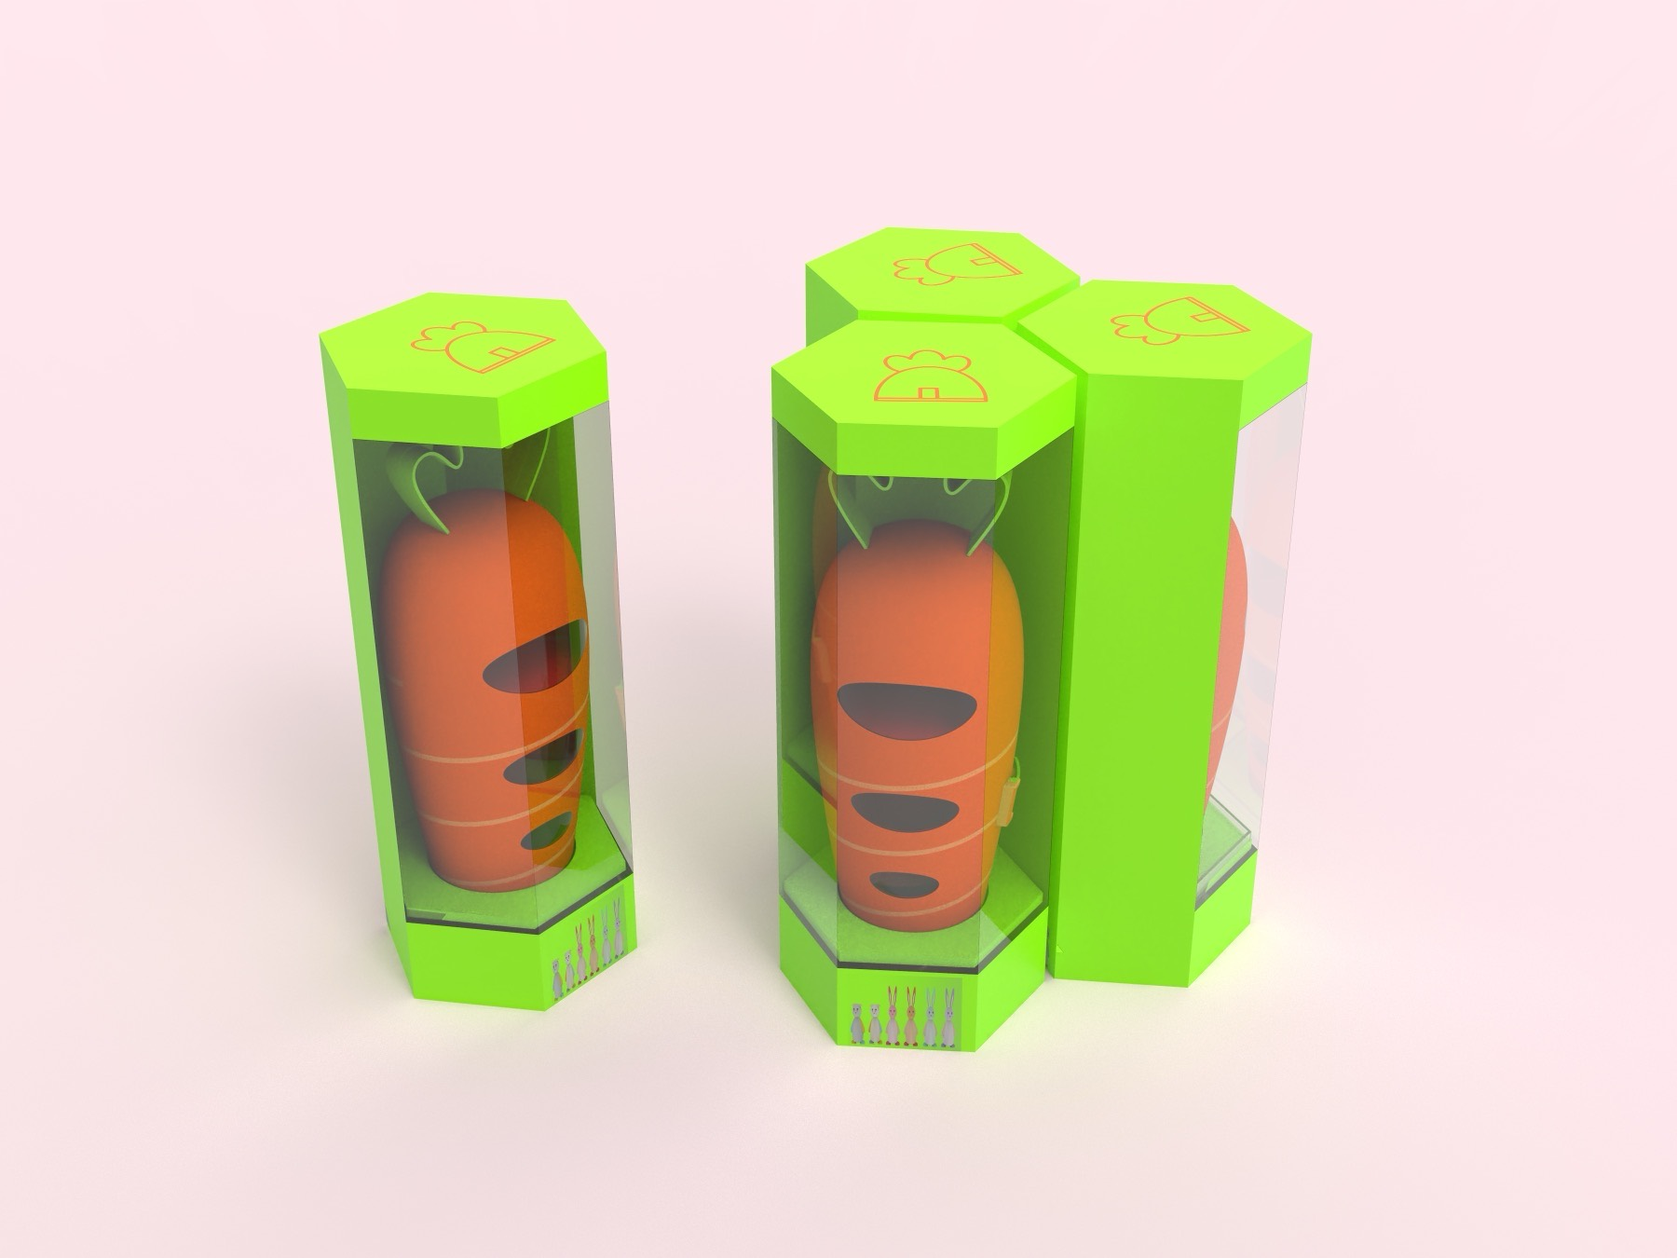
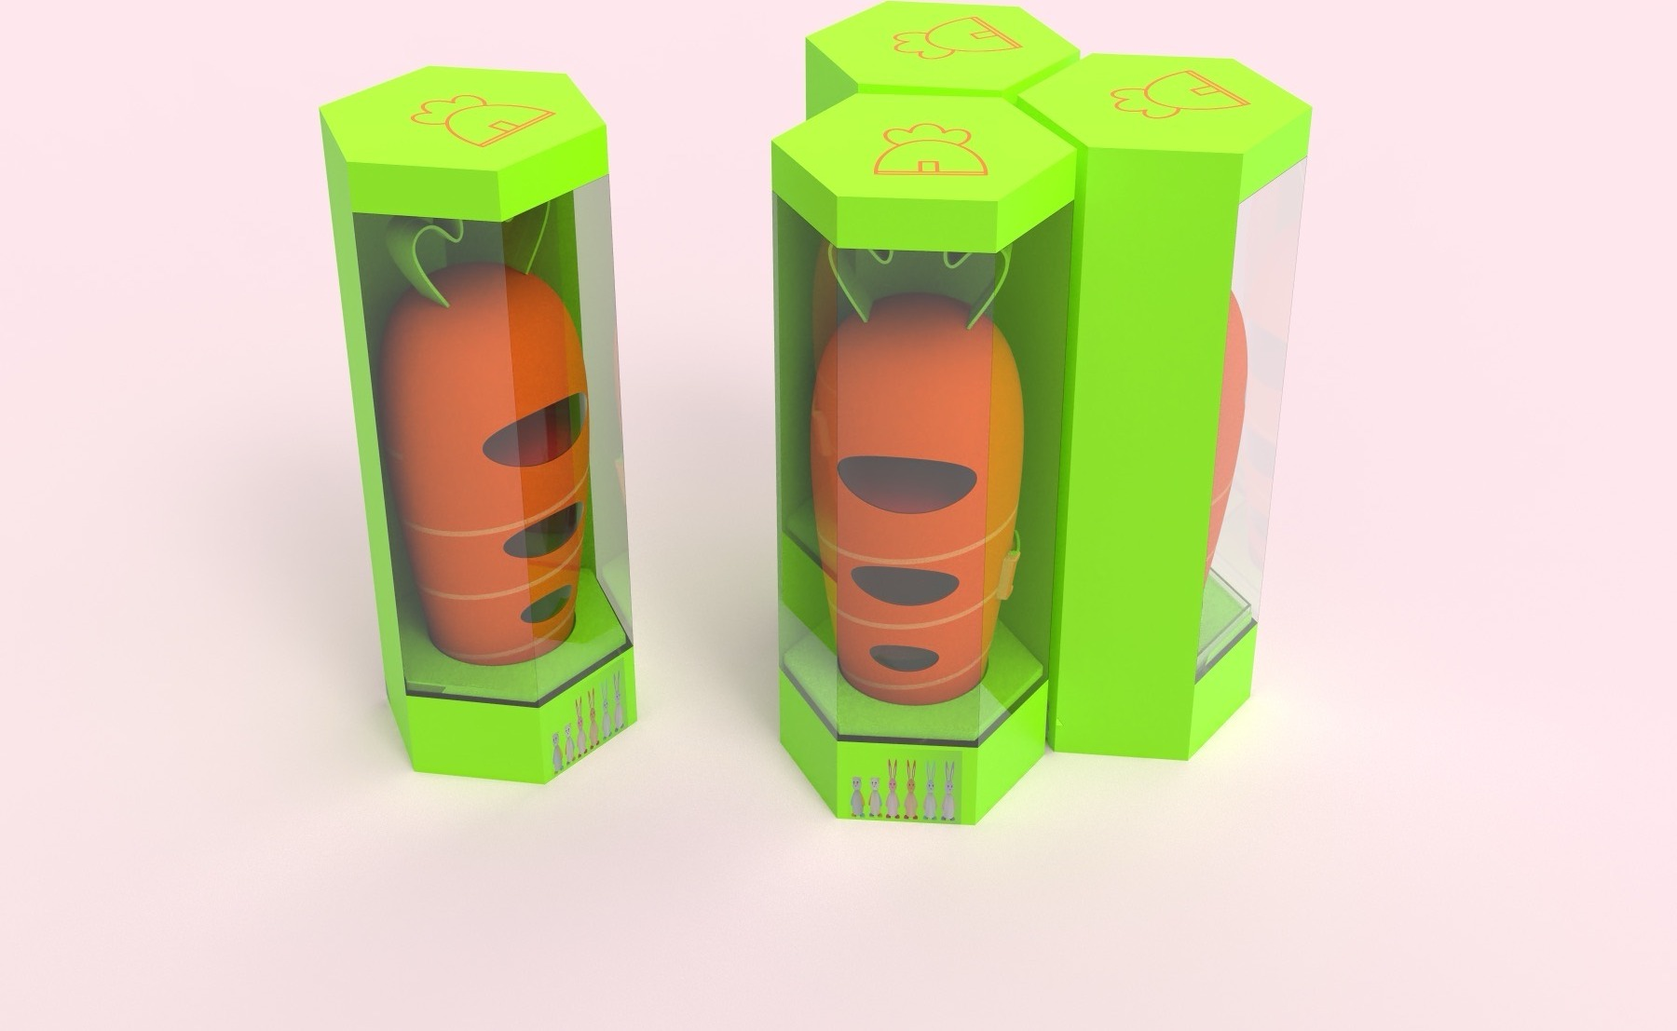
Reorder PetPal gallery, fix cover crops, merge Rock & Read Chair photos
- PetPal: move the interactive prototype below the clinic diagram,
  labeled glove render and UI sheet; drop the unlabeled glove gif in
  favor of the new labeled one; crop the labeled gif and UI sheet to
  the gallery's aspect ratio
- Carrot Dollhouse: crop the cover photo instead of letterboxing it,
  removing the white side bars
- Rock & Read Chair: combine the two matching action shots into a
  single side-by-side image, move the problem-statement slide right
  after the hero, and crop the empty-chair photo to drop a stray wall
  note above it
- Give every homepage work-item a stable id and point each project's
  "Back to Work" link at its own card instead of the top of the
  section

Changed region(s): [[0.1867, 0.0, 0.8089, 0.86]]

diff --git a/site/index.html b/site/index.html
@@ -61,7 +61,7 @@
     </div>
     <div class="filters"><button class="filter-btn active" data-filter="all">All</button><button class="filter-btn" data-filter="digital-devices">Digital Devices</button><button class="filter-btn" data-filter="childrens">Children&#x27;s Products</button><button class="filter-btn" data-filter="home-goods">Home Goods</button><button class="filter-btn" data-filter="form-studies">3D Form Studies</button></div>
     <div class="grid">
-    <div class="work-item" data-category="digital-devices">
+    <div class="work-item" id="work-velovision" data-category="digital-devices">
       <div class="work-text">
         <div class="card-tags"><span class="tag">UXUI</span><span class="tag">Product Design</span></div>
         <h3>VeloVision</h3>
@@ -71,7 +71,7 @@
       </div>
       <div class="work-tiles"><div class="work-tile work-tile-solo work-tile-cover work-tile-cover-left"><img src="assets/images/velovision/helmet-velo-6s.gif" alt="VeloVision helmet turntable animation" loading="lazy"></div></div>
     </div>
-    <div class="work-item" data-category="digital-devices">
+    <div class="work-item" id="work-petpal" data-category="digital-devices">
       <div class="work-text">
         <div class="card-tags"><span class="tag">UXUI</span></div>
         <h3>PetPal</h3>
@@ -81,7 +81,7 @@
       </div>
       <div class="work-tiles"><div class="work-tile work-tile-solo work-tile-cover work-tile-cover-left"><img src="assets/images/petpal/promo-dog-capture.gif" alt="PetPal app vitals capture in use" loading="lazy"></div></div>
     </div>
-    <div class="work-item" data-category="childrens">
+    <div class="work-item" id="work-carrot-dollhouse" data-category="childrens">
       <div class="work-text">
         <div class="card-tags"><span class="tag">Market Research</span><span class="tag">Toy Design</span></div>
         <h3>Carrot Dollhouse</h3>
@@ -91,7 +91,7 @@
       </div>
       <div class="work-tiles"><div class="work-tile"><img src="assets/images/carrot-dollhouse/carrot-dollhouse-1.jpg" alt="Carrot Dollhouse" loading="lazy"></div><div class="work-tile work-tile-cover"><img src="assets/images/carrot-dollhouse/carrot-dollhouse-2.jpg" alt="Carrot Dollhouse" loading="lazy"></div><div class="work-tile work-tile-cover"><img src="assets/images/carrot-dollhouse/carrot-dollhouse-5.jpg" alt="Carrot Dollhouse" loading="lazy"></div><div class="work-tile"><img src="assets/images/carrot-dollhouse/carrot-dollhouse-4.jpg" alt="Carrot Dollhouse" loading="lazy"></div></div>
     </div>
-    <div class="work-item" data-category="home-goods">
+    <div class="work-item" id="work-cy-cosmetics" data-category="home-goods">
       <div class="work-text">
         <div class="card-tags"><span class="tag">Design</span><span class="tag">Inclusive Design</span></div>
         <h3>C&amp;Y Cosmetics</h3>
@@ -101,7 +101,7 @@
       </div>
       <div class="work-tiles"><div class="work-tile work-tile-cover"><img src="assets/images/cy-cosmetics/cy-cosmetics-1.png" alt="C&amp;Y Cosmetics" loading="lazy"></div><div class="work-tile"><img src="assets/images/cy-cosmetics/cy-cosmetics-2.jpg" alt="C&amp;Y Cosmetics" loading="lazy"></div><div class="work-tile work-tile-cover work-tile-cover-left"><img src="assets/images/cy-cosmetics/cy-cosmetics-3.jpg" alt="C&amp;Y Cosmetics" loading="lazy"></div><div class="work-tile work-tile-cover"><img src="assets/images/cy-cosmetics/cy-cosmetics-4.jpg" alt="C&amp;Y Cosmetics" loading="lazy"></div></div>
     </div>
-    <div class="work-item" data-category="home-goods">
+    <div class="work-item" id="work-rock-and-read-chair" data-category="home-goods">
       <div class="work-text">
         <div class="card-tags"><span class="tag">Design</span></div>
         <h3>Rock &amp; Read Chair</h3>
@@ -111,7 +111,7 @@
       </div>
       <div class="work-tiles"><div class="work-tile work-tile-solo work-tile-cover"><img src="assets/images/rock-and-read-chair/rock-and-read-chair-1.jpg" alt="Rock &amp; Read Chair" loading="lazy"></div></div>
     </div>
-    <div class="work-item" data-category="childrens">
+    <div class="work-item" id="work-sagomini-camping" data-category="childrens">
       <div class="work-text">
         <div class="card-tags"><span class="tag">Design</span><span class="tag">Lean Methodology</span></div>
         <h3>SAGOmini: Camping</h3>
@@ -121,7 +121,7 @@
       </div>
       <div class="work-tiles"><div class="work-tile work-tile-cover"><img src="assets/images/sagomini-camping/sagomini-camping-1.png" alt="SAGOmini: Camping" loading="lazy"></div><div class="work-tile work-tile-cover"><img src="assets/images/sagomini-camping/sagomini-camping-2.jpg" alt="SAGOmini: Camping" loading="lazy"></div><div class="work-tile work-tile-cover" style="background:#b3c87b"><img src="assets/images/sagomini-camping/sagomini-camping-3.jpg" alt="SAGOmini: Camping" loading="lazy"></div><div class="work-tile work-tile-cover"><img src="assets/images/sagomini-camping/sagomini-camping-4.jpg" alt="SAGOmini: Camping" loading="lazy"></div></div>
     </div>
-    <div class="work-item" data-category="home-goods">
+    <div class="work-item" id="work-hydro-planter" data-category="home-goods">
       <div class="work-text">
         <div class="card-tags"><span class="tag">Design</span><span class="tag">Manufacturing</span></div>
         <h3>Hydro Planter</h3>
@@ -131,7 +131,7 @@
       </div>
       <div class="work-tiles"><div class="work-tile work-tile-cover"><img src="assets/images/hydro-planter/hydro-planter-1.jpg" alt="Hydro Planter" loading="lazy"></div><div class="work-tile"><img src="assets/images/hydro-planter/hydro-planter-2.jpg" alt="Hydro Planter" loading="lazy"></div><div class="work-tile"><img src="assets/images/hydro-planter/hydro-planter-3.jpg" alt="Hydro Planter" loading="lazy"></div><div class="work-tile"><img src="assets/images/hydro-planter/hydro-planter-4.jpg" alt="Hydro Planter" loading="lazy"></div></div>
     </div>
-    <div class="work-item" data-category="form-studies">
+    <div class="work-item" id="work-paper-sculpture" data-category="form-studies">
       <div class="work-text">
         <div class="card-tags"><span class="tag">3D</span></div>
         <h3>Paper Sculpture</h3>
@@ -141,7 +141,7 @@
       </div>
       <div class="work-tiles"><div class="work-tile work-tile-solo"><img src="assets/images/paper-sculpture/paper-sculpture-1.png" alt="Paper Sculpture" loading="lazy"></div></div>
     </div>
-    <div class="work-item" data-category="childrens">
+    <div class="work-item" id="work-bubbling-hat" data-category="childrens">
       <div class="work-text">
         <div class="card-tags"><span class="tag">Toy Design</span></div>
         <h3>Bubbling Hat</h3>
@@ -151,7 +151,7 @@
       </div>
       <div class="work-tiles"><div class="work-tile"><img src="assets/images/bubbling-hat/bubbling-hat-1.jpg" alt="Bubbling Hat" loading="lazy"></div><div class="work-tile"><img src="assets/images/bubbling-hat/bubbling-hat-2.jpg" alt="Bubbling Hat" loading="lazy"></div><div class="work-tile"><img src="assets/images/bubbling-hat/bubbling-hat-4.jpg" alt="Bubbling Hat" loading="lazy"></div><div class="work-tile"><img src="assets/images/bubbling-hat/bubbling-hat-5.png" alt="Bubbling Hat" loading="lazy"></div></div>
     </div>
-    <div class="work-item" data-category="digital-devices">
+    <div class="work-item" id="work-sonic-shell" data-category="digital-devices">
       <div class="work-text">
         <div class="card-tags"><span class="tag">Speculative Design</span></div>
         <h3>Sonic Shell</h3>
@@ -161,7 +161,7 @@
       </div>
       <div class="work-tiles"><div class="work-tile"><img src="assets/images/sonic-shell/sonic-shell-1.jpg" alt="Sonic Shell" loading="lazy"></div><div class="work-tile"><img src="assets/images/sonic-shell/sonic-shell-2.jpg" alt="Sonic Shell" loading="lazy"></div><div class="work-tile"><img src="assets/images/sonic-shell/sonic-shell-3.jpg" alt="Sonic Shell" loading="lazy"></div><div class="work-tile"><img src="assets/images/sonic-shell/sonic-shell-4.jpg" alt="Sonic Shell" loading="lazy"></div></div>
     </div>
-    <div class="work-item" data-category="form-studies">
+    <div class="work-item" id="work-concavity" data-category="form-studies">
       <div class="work-text">
         <div class="card-tags"><span class="tag">Series Seven</span></div>
         <h3>Concavity</h3>
@@ -171,7 +171,7 @@
       </div>
       <div class="work-tiles"><div class="work-tile"><img src="assets/images/concavity/concavity-1.jpg" alt="Concavity" loading="lazy"></div><div class="work-tile"><img src="assets/images/concavity/concavity-2.jpg" alt="Concavity" loading="lazy"></div><div class="work-tile"><img src="assets/images/concavity/concavity-3.jpg" alt="Concavity" loading="lazy"></div><div class="work-tile"><img src="assets/images/concavity/concavity-4.jpg" alt="Concavity" loading="lazy"></div></div>
     </div>
-    <div class="work-item" data-category="form-studies">
+    <div class="work-item" id="work-convexity" data-category="form-studies">
       <div class="work-text">
         <div class="card-tags"><span class="tag">3D</span></div>
         <h3>Convexity</h3>
@@ -181,7 +181,7 @@
       </div>
       <div class="work-tiles"><div class="work-tile work-tile-solo work-tile-cover"><img src="assets/images/convexity/convexity-1.jpg" alt="Convexity" loading="lazy"></div></div>
     </div>
-    <div class="work-item" data-category="form-studies">
+    <div class="work-item" id="work-rectanlinear" data-category="form-studies">
       <div class="work-text">
         <div class="card-tags"><span class="tag">3D</span></div>
         <h3>Rectanlinear</h3>
@@ -191,7 +191,7 @@
       </div>
       <div class="work-tiles"><div class="work-tile work-tile-cover"><img src="assets/images/rectanlinear/rectanlinear-1.jpg" alt="Rectanlinear" loading="lazy"></div><div class="work-tile work-tile-cover"><img src="assets/images/rectanlinear/rectanlinear-2.jpg" alt="Rectanlinear" loading="lazy"></div><div class="work-tile work-tile-cover"><img src="assets/images/rectanlinear/rectanlinear-3.jpg" alt="Rectanlinear" loading="lazy"></div><div class="work-tile"><img src="assets/images/rectanlinear/rectanlinear-4.jpg" alt="Rectanlinear" loading="lazy"></div></div>
     </div>
-    <div class="work-item" data-category="form-studies">
+    <div class="work-item" id="work-abstraction" data-category="form-studies">
       <div class="work-text">
         <div class="card-tags"><span class="tag">Series Seven</span></div>
         <h3>Abstraction</h3>

diff --git a/site/projects/petpal.html b/site/projects/petpal.html
@@ -63,12 +63,15 @@
   <div class="wrap">
         <div class="project-hero-grid">
       <div class="project-hero-text">
-        <a class="project-back" href="../index.html#work">&#8592; Back to Work</a>
+        <a class="project-back" href="../index.html#work-petpal">&#8592; Back to Work</a>
         <div class="card-tags"><span class="tag">UXUI</span></div>
     <h1>PetPal</h1>
     <p class="project-lede">A healthcare device that lets pet owners conduct a pet health consultation from home — transmitting vital signs online and translating consultations, treatment options and prescriptions for owners who don&#x27;t speak their vet&#x27;s language.</p>
       </div>
       <div class="project-cover project-cover-left"><img src="../assets/images/petpal/promo-live-reading.jpg" alt="PetPal glove in use while petting a cat"></div>
+    <div class="project-gallery project-gallery-mid"><img src="../assets/images/petpal/petpal-phone-to-clinic.gif" alt="From a hug to the vet's screen: reading sent from the owner's phone to the clinic console" loading="lazy">
+<img src="../assets/images/petpal/petpal-glove-labeled.gif" alt="PetPal glove device with sensor callouts, front and back view" loading="lazy">
+<img src="../assets/images/petpal/petpal-ui-sheet.png" alt="PetPal app UI screen sheet" loading="lazy"></div>
       <div class="proto-cta" aria-hidden="true">
         <span class="proto-cta-text">Play with the app</span>
         <svg class="proto-cta-arrow" width="62" height="50" viewBox="0 0 124 100" fill="none" xmlns="http://www.w3.org/2000/svg">
@@ -77,9 +80,7 @@
         </svg>
       </div>
       <div class="project-prototype"><iframe src="../assets/images/petpal/petpal-prototype.html" title="PetPal app interactive prototype" loading="lazy"></iframe></div>
-    <div class="project-gallery"><img src="../assets/images/petpal/petpal-sketch.jpg" alt="PetPal" loading="lazy">
-<img src="../assets/images/petpal/petpal-glove.gif" alt="PetPal glove device, front and back view" loading="lazy">
-<img src="../assets/images/petpal/petpal-phone-to-clinic.gif" alt="From a hug to the vet's screen: reading sent from the owner's phone to the clinic console" loading="lazy"></div>
+    <div class="project-gallery"><img src="../assets/images/petpal/petpal-sketch.jpg" alt="PetPal" loading="lazy"></div>
     </div>
     
     <div class="project-section">

diff --git a/site/projects/rock-and-read-chair.html b/site/projects/rock-and-read-chair.html
@@ -63,15 +63,14 @@
   <div class="wrap">
         <div class="project-hero-grid">
       <div class="project-hero-text">
-        <a class="project-back" href="../index.html#work">&#8592; Back to Work</a>
+        <a class="project-back" href="../index.html#work-rock-and-read-chair">&#8592; Back to Work</a>
         <div class="card-tags"><span class="tag">Design</span></div>
     <h1>Rock &amp; Read Chair</h1>
     <p class="project-lede">A rocking chair with layers of transparent pockets to organize magazines and provide a convenient reading space; magazines gently move as users read and rock.</p>
       </div>
       <div class="project-cover"><img src="../assets/images/rock-and-read-chair/rock-and-read-chair-2.jpg" alt="Rock &amp; Read Chair"></div>
-    <div class="project-gallery"><img src="../assets/images/rock-and-read-chair/rock-and-read-chair-3.jpg" alt="Rock &amp; Read Chair" loading="lazy">
-<img src="../assets/images/rock-and-read-chair/rock-and-read-chair-4.jpg" alt="Rock &amp; Read Chair" loading="lazy">
-<img src="../assets/images/rock-and-read-chair/rock-and-read-chair-5.jpg" alt="Rock &amp; Read Chair" loading="lazy">
+    <div class="project-gallery"><img src="../assets/images/rock-and-read-chair/rock-and-read-chair-5.jpg" alt="Rock &amp; Read Chair" loading="lazy">
+<img src="../assets/images/rock-and-read-chair/rock-and-read-chair-3-4-combined.jpg" alt="Rock &amp; Read Chair" loading="lazy">
 <img src="../assets/images/rock-and-read-chair/rock-and-read-chair-6.jpg" alt="Rock &amp; Read Chair" loading="lazy">
 <img src="../assets/images/rock-and-read-chair/rock-and-read-chair-7.jpg" alt="Rock &amp; Read Chair design sketches on iPad" loading="lazy"></div>
     </div>

diff --git a/site/projects/carrot-dollhouse.html b/site/projects/carrot-dollhouse.html
@@ -63,12 +63,12 @@
   <div class="wrap">
         <div class="project-hero-grid">
       <div class="project-hero-text">
-        <a class="project-back" href="../index.html#work">&#8592; Back to Work</a>
+        <a class="project-back" href="../index.html#work-carrot-dollhouse">&#8592; Back to Work</a>
         <div class="card-tags"><span class="tag">Market Research</span><span class="tag">Toy Design</span></div>
     <h1>Carrot Dollhouse</h1>
     <p class="project-lede">Carrot-shaped rocket-themed dollhouse toy for preschool children — a doll house, a parking lot and four bunnies, two lambs and many props.</p>
       </div>
-      <div class="project-cover project-cover-contain"><img src="../assets/images/carrot-dollhouse/carrot-dollhouse-3.jpg" alt="Carrot Dollhouse"></div>
+      <div class="project-cover"><img src="../assets/images/carrot-dollhouse/carrot-dollhouse-3.jpg" alt="Carrot Dollhouse"></div>
     <div class="project-gallery"><img src="../assets/images/carrot-dollhouse/carrot-dollhouse-6.jpg" alt="Carrot Dollhouse" loading="lazy">
 <img src="../assets/images/carrot-dollhouse/carrot-dollhouse-7.jpg" alt="Carrot Dollhouse" loading="lazy">
 <img src="../assets/images/carrot-dollhouse/carrot-dollhouse-8.jpg" alt="Carrot Dollhouse" loading="lazy"></div>

diff --git a/site/assets/css/style.css b/site/assets/css/style.css
@@ -234,6 +234,7 @@ a{ color: inherit; text-decoration:none; }
 .work-item{
   display:grid; grid-template-columns: 300px 1fr; gap:48px; align-items:start;
   padding-bottom:56px; border-bottom:1.5px solid var(--line);
+  scroll-margin-top: 104px;
 }
 .work-item:last-child{ border-bottom:none; padding-bottom:0; }
 .work-text{ display:flex; flex-direction:column; min-width:0; }
@@ -380,6 +381,8 @@ footer p{ color: var(--ink-soft); font-size:0.82rem; margin:0; font-family: var(
 .project-gallery{
   display:grid; grid-template-columns: 1fr; gap: 14px; margin: 0 0 50px;
 }
+/* mid-sequence gallery block: the grid's own row gap already provides spacing before the next element */
+.project-gallery-mid{ margin-bottom:0; }
 .project-gallery img, .project-gallery video{
   border-radius: 12px; width:100%; aspect-ratio: 1949/1199; object-fit: contain; background: #fff;
 }

diff --git a/site/projects/velovision.html b/site/projects/velovision.html
@@ -63,7 +63,7 @@
   <div class="wrap">
         <div class="project-hero-grid">
       <div class="project-hero-text">
-        <a class="project-back" href="../index.html#work">&#8592; Back to Work</a>
+        <a class="project-back" href="../index.html#work-velovision">&#8592; Back to Work</a>
         <div class="card-tags"><span class="tag">UXUI</span><span class="tag">Product Design</span></div>
     <h1>VeloVision</h1>
     <p class="project-lede">A smart safety helmet that combines protective headgear with AR smart glasses, gesture-controlled turn signals and bone-conduction audio, letting cyclists navigate safely without checking their phones.</p>

diff --git a/site/projects/hydro-planter.html b/site/projects/hydro-planter.html
@@ -63,7 +63,7 @@
   <div class="wrap">
         <div class="project-hero-grid">
       <div class="project-hero-text">
-        <a class="project-back" href="../index.html#work">&#8592; Back to Work</a>
+        <a class="project-back" href="../index.html#work-hydro-planter">&#8592; Back to Work</a>
         <div class="card-tags"><span class="tag">Design</span><span class="tag">Manufacturing</span></div>
     <h1>Hydro Planter</h1>
     <p class="project-lede">A planter that waters plants directly at the root without touching or damaging the plant, designed for rotomolding production; doubles as an outdoor stool when empty.</p>

diff --git a/site/projects/sonic-shell.html b/site/projects/sonic-shell.html
@@ -63,7 +63,7 @@
   <div class="wrap">
         <div class="project-hero-grid">
       <div class="project-hero-text">
-        <a class="project-back" href="../index.html#work">&#8592; Back to Work</a>
+        <a class="project-back" href="../index.html#work-sonic-shell">&#8592; Back to Work</a>
         <div class="card-tags"><span class="tag">Speculative Design</span></div>
     <h1>Sonic Shell</h1>
     <p class="project-lede">Speculative design for the year 2061 — an instrument, like a piano of today, that adapts notations and movements to be intuitive for people to understand and play.</p>

diff --git a/site/projects/cy-cosmetics.html b/site/projects/cy-cosmetics.html
@@ -63,7 +63,7 @@
   <div class="wrap">
         <div class="project-hero-grid">
       <div class="project-hero-text">
-        <a class="project-back" href="../index.html#work">&#8592; Back to Work</a>
+        <a class="project-back" href="../index.html#work-cy-cosmetics">&#8592; Back to Work</a>
         <div class="card-tags"><span class="tag">Design</span><span class="tag">Inclusive Design</span></div>
     <h1>C&amp;Y Cosmetics</h1>
     <p class="project-lede">An imaginary branding project: a set of four lipsticks designed for visually impaired users, along with packaging and display.</p>

diff --git a/site/projects/sagomini-camping.html b/site/projects/sagomini-camping.html
@@ -63,7 +63,7 @@
   <div class="wrap">
         <div class="project-hero-grid">
       <div class="project-hero-text">
-        <a class="project-back" href="../index.html#work">&#8592; Back to Work</a>
+        <a class="project-back" href="../index.html#work-sagomini-camping">&#8592; Back to Work</a>
         <div class="card-tags"><span class="tag">Design</span><span class="tag">Lean Methodology</span></div>
     <h1>SAGOmini: Camping</h1>
     <p class="project-lede">A camping-theme Sagomini subscription box with three activities, a role-play character doll, and a transformable box.</p>

diff --git a/site/projects/bubbling-hat.html b/site/projects/bubbling-hat.html
@@ -63,7 +63,7 @@
   <div class="wrap">
         <div class="project-hero-grid">
       <div class="project-hero-text">
-        <a class="project-back" href="../index.html#work">&#8592; Back to Work</a>
+        <a class="project-back" href="../index.html#work-bubbling-hat">&#8592; Back to Work</a>
         <div class="card-tags"><span class="tag">Toy Design</span></div>
     <h1>Bubbling Hat</h1>
     <p class="project-lede">A unisex hat toy inspired by the play pattern of a Nerf gun — squeeze the two straps on the side to spit out bubbles. Concept purchased by Camp NYC, Inc.</p>

diff --git a/site/projects/abstraction.html b/site/projects/abstraction.html
@@ -63,7 +63,7 @@
   <div class="wrap">
         <div class="project-hero-grid">
       <div class="project-hero-text">
-        <a class="project-back" href="../index.html#work">&#8592; Back to Work</a>
+        <a class="project-back" href="../index.html#work-abstraction">&#8592; Back to Work</a>
         <div class="card-tags"><span class="tag">Series Seven</span></div>
     <h1>Abstraction</h1>
     <p class="project-lede">A composition inspired by the abstraction of a slinky toy, emphasizing movement, proportion and scale through the representation of planes.</p>
